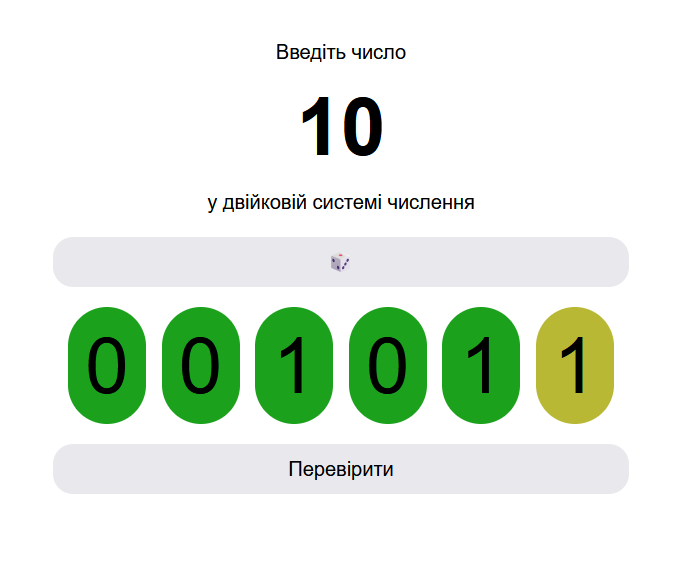
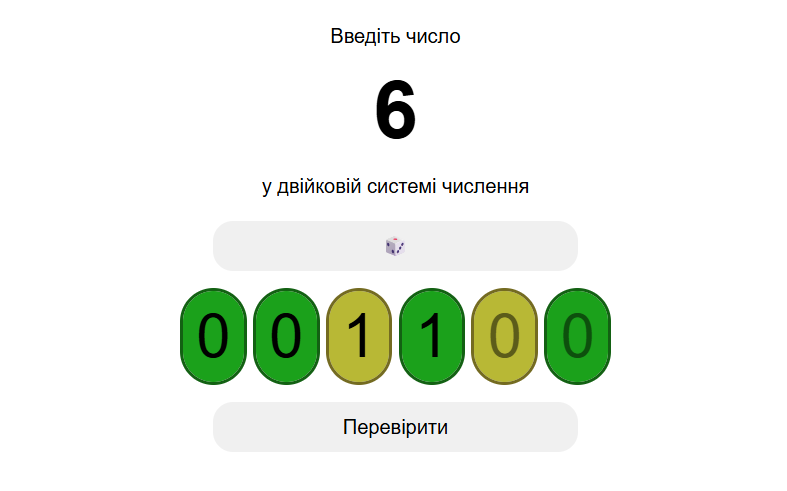
feat: add haptics feedback, improve the appearance

diff --git a/script.js b/script.js
@@ -1,4 +1,7 @@
+import { WebHaptics } from "https://unpkg.com/web-haptics@0.0.6/dist/index.mjs"
+
 let checked = false
+const haptics = new WebHaptics()
 
 window.onload = () => {
     const input = document.getElementById("binary-input");
@@ -22,7 +25,9 @@ window.onload = () => {
     document.querySelector(".input-container")?.addEventListener("click", () => input.focus());
     
     input.onblur = () => updateInputSegments(input.value, checked ? parseInt(task.innerText) : undefined, true);
-    input.onfocus = () => updateInputSegments(input.value);
+    input.onfocus = () => {
+        if (!input.readOnly) updateInputSegments(input.value)
+    };
 
     document.querySelector(".redo")?.addEventListener("click", () => {
         if (!task) return console.error("bruh cannot select the task number")
@@ -36,10 +41,24 @@ window.onload = () => {
 
     const check = () => {
         if (!task) return console.error("bruh cannot select the task number")
-        checked = true
         input.readOnly = true
         input.focus()
         updateInputSegments(input.value, parseInt(task.innerText))
+
+        // do haptic feedback
+        if (!checked) {
+            const hapticsFeedbacks = []
+            document.querySelectorAll(".input-segment").forEach((segment, index) => {
+                const isWrong = segment.classList.contains("wrong")
+                hapticsFeedbacks.push({
+                    duration: isWrong ? 50 : 30,
+                    delay: index > 0 ? 100 : 0,
+                    intensity: isWrong ? 1 : 0.25,
+                })
+            })
+            haptics.trigger(hapticsFeedbacks)
+        }
+        checked = true
     }
 
     document.querySelector(".check")?.addEventListener("click", check)
@@ -67,7 +86,7 @@ function updateInputSegments(input, correctAnswer, removeActive = false) {
     ) activeSegmentIndex++
     segments.forEach((div, index) => {
         div.classList.remove("correct", "wrong")
-        if (activeSegmentIndex !== index || removeActive) div.classList.remove("active")
+        if (activeSegmentIndex !== index || removeActive || correctAnswer != undefined) div.classList.remove("active")
         else div.classList.add("active")
         if (index <= input.length - 1) div.innerText = input.at(index)
         else div.innerText = ""

diff --git a/style.css b/style.css
@@ -6,6 +6,9 @@ body {
     text-align: center;
     min-height: 80vh;
     padding: 10% 0;
+    @media (height < 400px) {
+        padding-top: 0;
+    }
 }
 
 button {
@@ -59,22 +62,39 @@ noscript {
     
 }
 
+@keyframes correct {
+    0%, 100% {
+        translate: 0 0;
+    }
+    50% {
+        translate: 0 -20%;
+    }
+}
+
 .input-segment {
     border-radius: 1em;
     aspect-ratio: 1 / 1;
     width: clamp(2rem, 1.5385rem + 2.4615vw, 4rem);
     background-color: color-mix(in srgb, transparent, black 20%);
-
+    
     &.active {
         outline: 2px solid currentColor;
     }
-
+    
     &.correct {
         background-color: #1ba11b;
+        animation-name: correct;
+        animation-delay: calc(sibling-index() * 0.1s);
+        animation-duration: 0.2s;
+        animation-timing-function: ease-in;
+        outline: 3px solid #136113;
+        transition: outline 0.2s ease-in;
     }
 
     &.wrong {
         background-color: rgb(184, 184, 53);
+        outline: 3px solid rgb(116, 107, 33);
+        transition: outline 0.2s ease-in;
     }
 
     &:empty::before {

diff --git a/index.html b/index.html
@@ -9,7 +9,7 @@
     <link rel="icon" type="image/png" href="favicon-256x256.png" />
     <link rel="manifest" href="manifest.json" />
     <link rel="stylesheet" href="style.css" />
-    <script src="script.js"></script>
+    <script src="script.js" type="module"></script>
     <style>
       :root {
         color-scheme: light dark;

diff --git a/README.md b/README.md
@@ -7,3 +7,11 @@
 Another difference from the original Wordle game is the 6-digit input instead of 5-digit, just because it allows more different numbers to be playable (0-63).
 
 The decimal number is editable, if you click on it, so you can cheat a little bit. You can also specify the number in the URL query parameter 'n', for example https://binarble.skrw.me/?n=6 will always ask for 6 in binary.
+
+## Dependencies
+
+This project uses [Web Haptics ✨](https://github.com/lochie/web-haptics) for haptic feedback on mobile instead of [`navigator.vibrate`](https://developer.mozilla.org/en-US/docs/Web/API/Navigator/vibrate), since Apple devices lack support of it. This may increase load time, but I think it's worth it.
+
+## Local testing and development
+
+Because of the `import` usage (only needed for haptics), you have to run an HTTP server for the webpage to work, since it requires a script to be a module, which are not loadable from the regular HTML files. If you have Python installed, it is as easy as running `python -m http.server <port>` in your terminal inside of the project directory, and then your own local Binarble website will be available at `http://localhost:<port>`.
